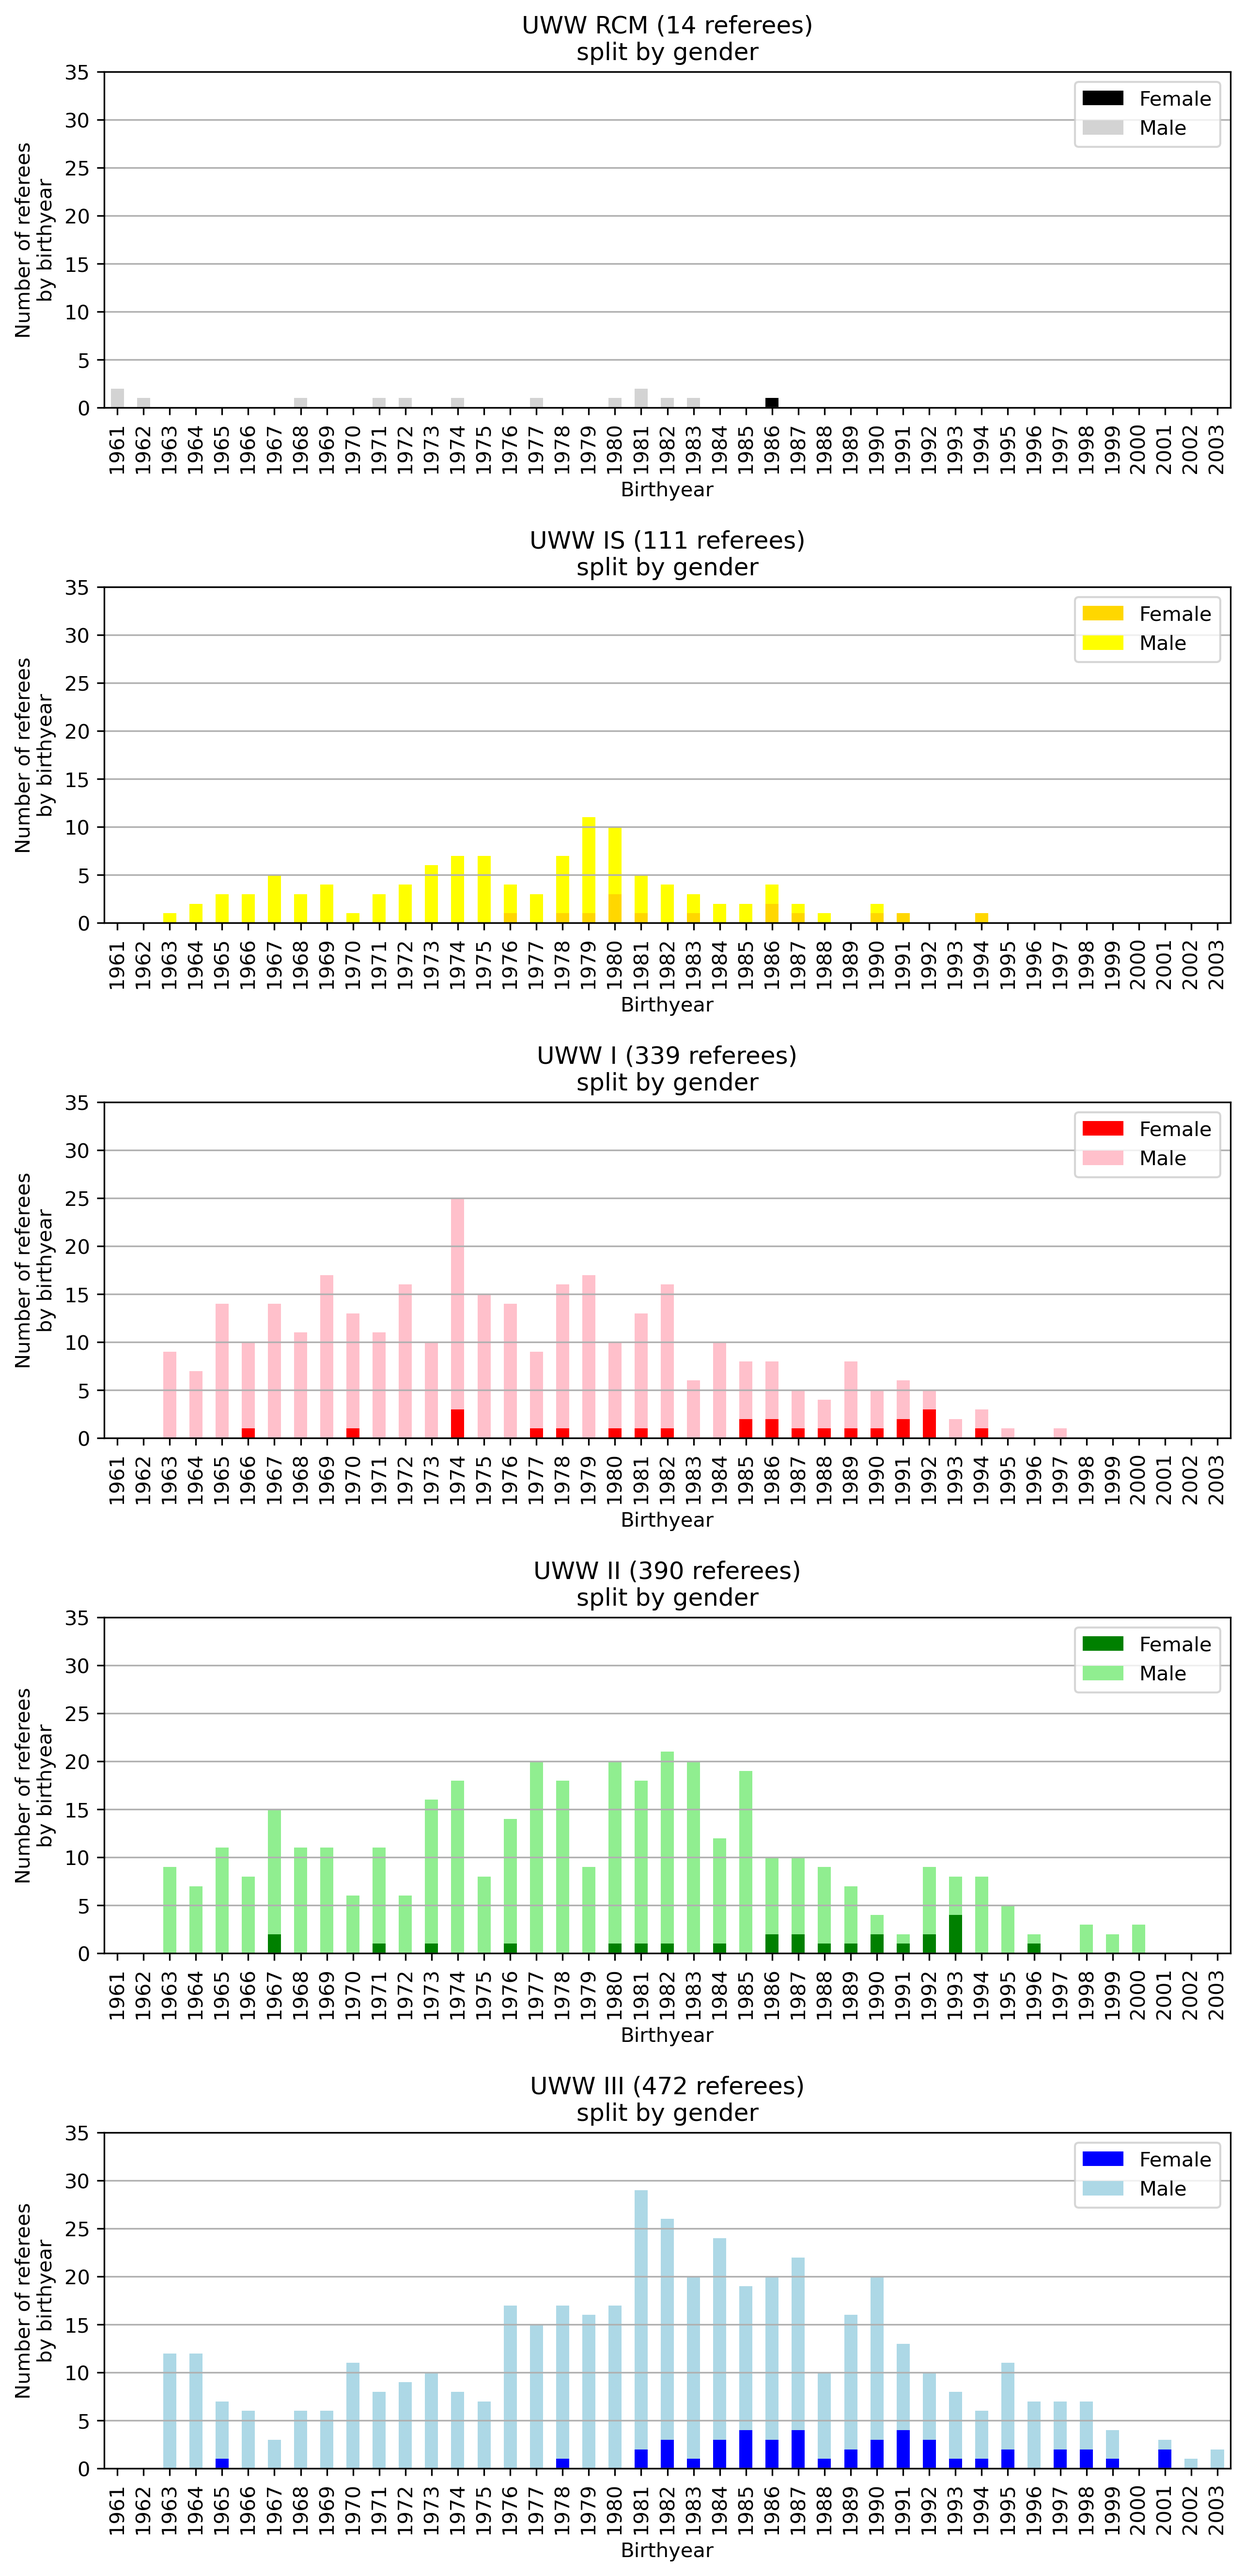
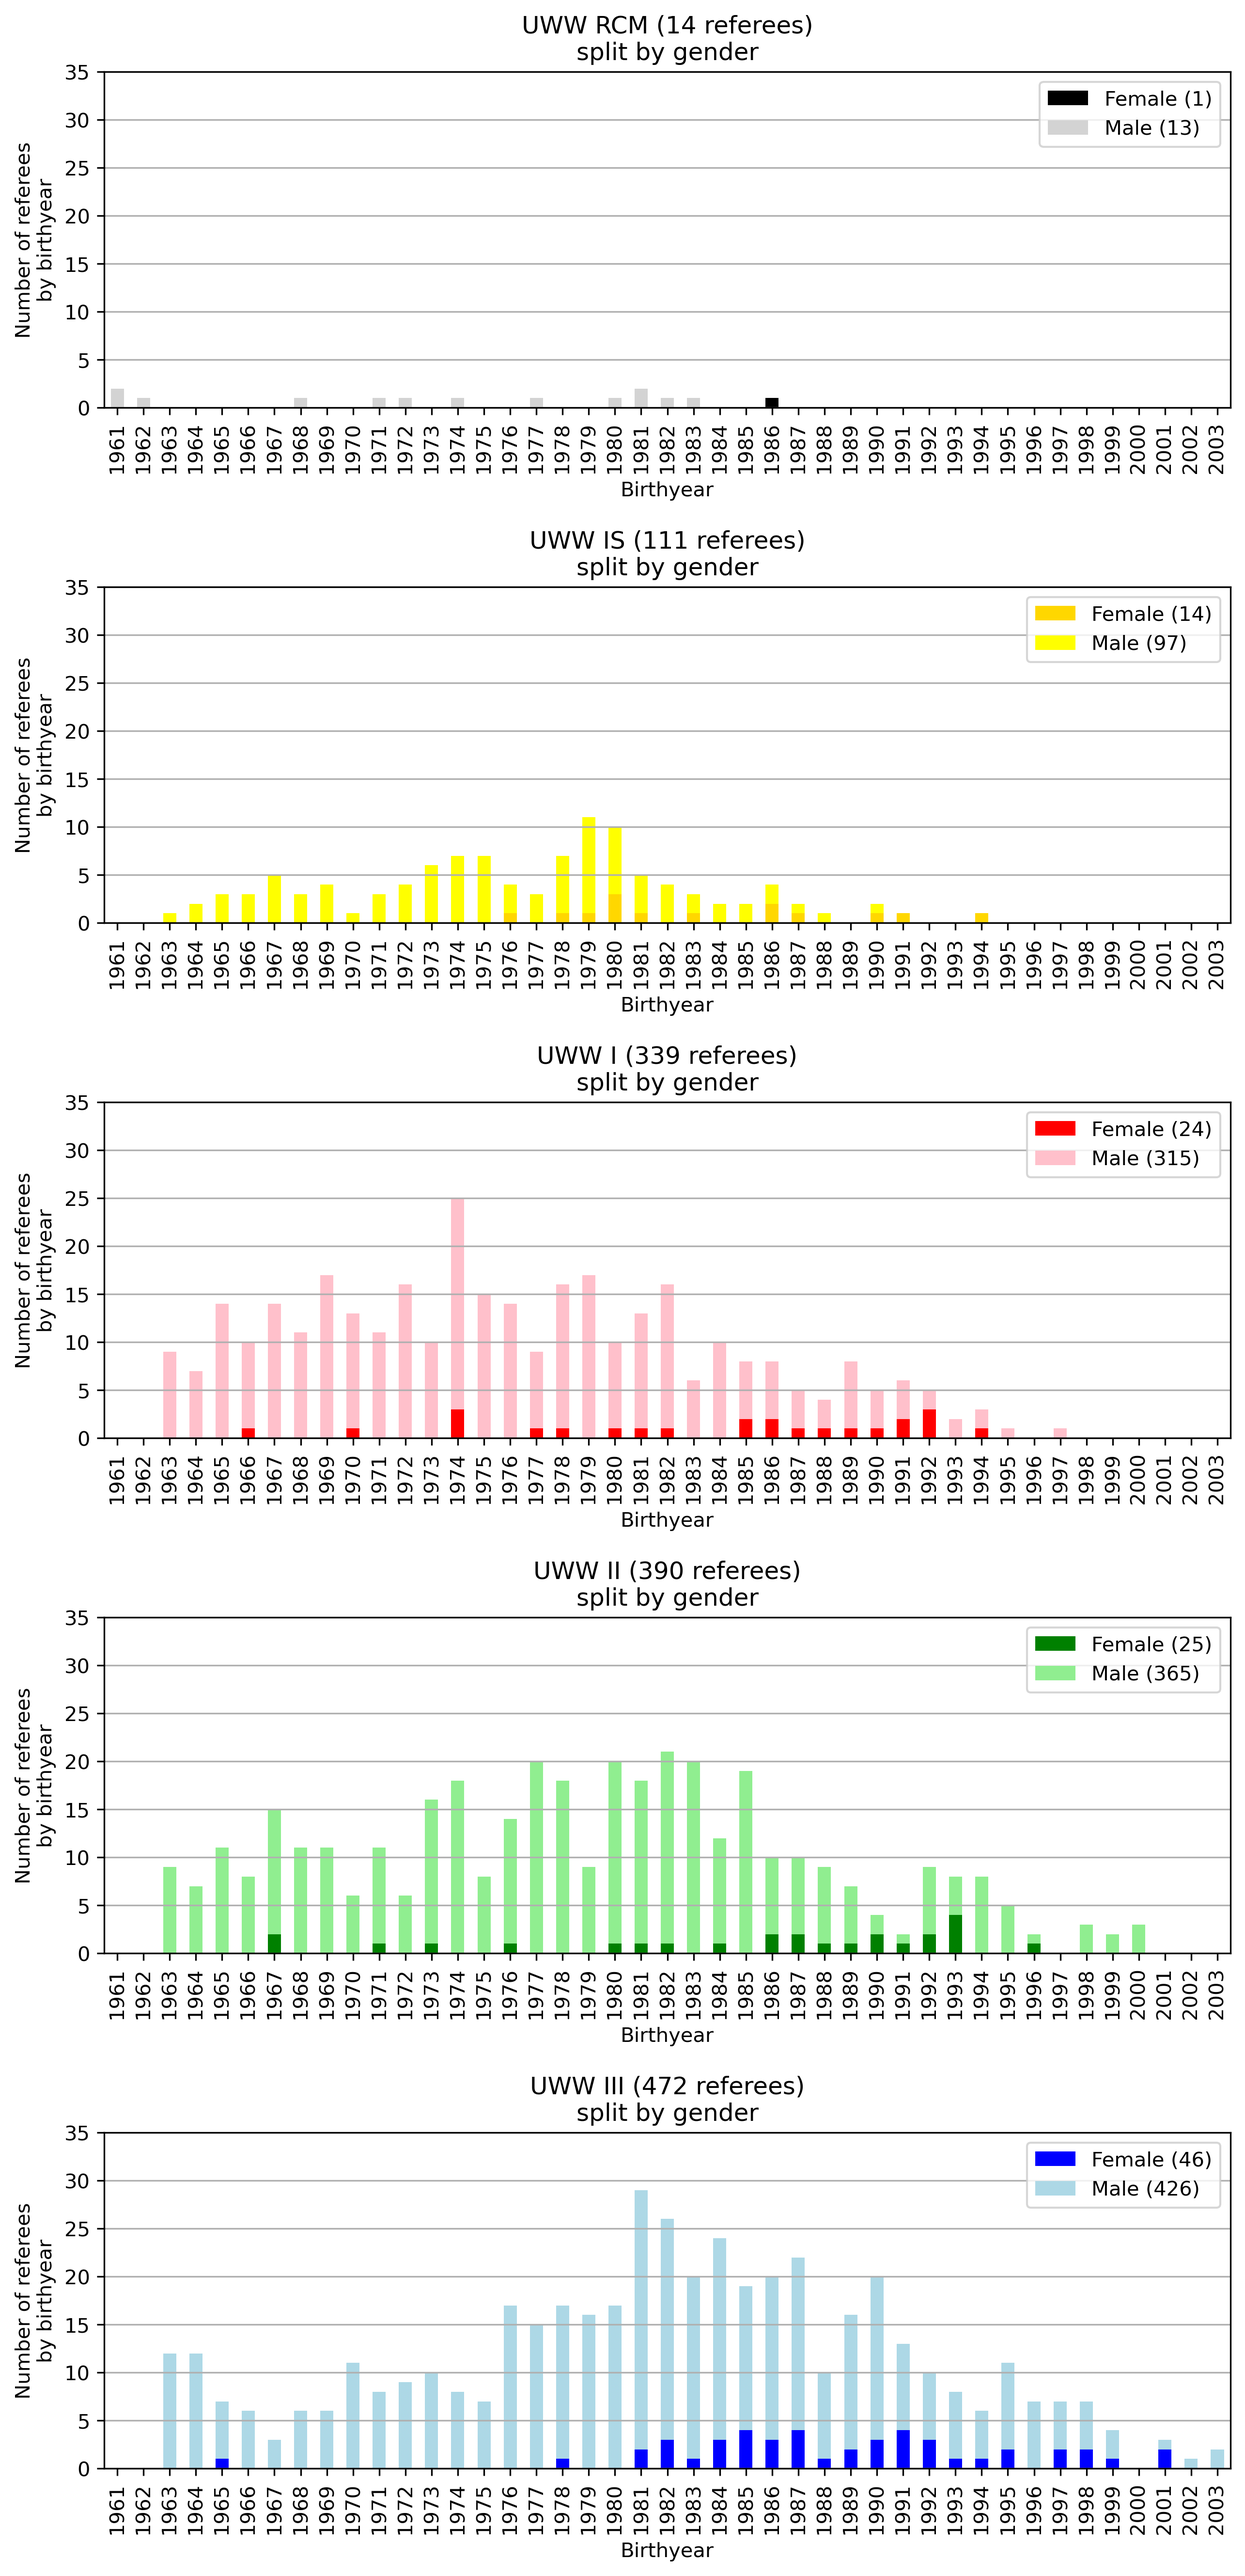
Update image creation with count per gender

diff --git a/graph.py b/graph.py
@@ -24,7 +24,7 @@ def graph_data():
     for category in colors:
         df_tmp_m = get_ref_count(df_int, category, 'M')
         df_tmp_f = get_ref_count(df_int, category, 'F')
-        df_tmp = pd.DataFrame({'Female': df_tmp_f['name'], 'Male': df_tmp_m['name']})
+        df_tmp = pd.DataFrame({f"Female ({df_tmp_f['name'].sum()})": df_tmp_f['name'], f"Male ({df_tmp_m['name'].sum()})": df_tmp_m['name']})
 
         ax = df_tmp.plot(kind="bar", stacked=True, color=colors[category], figsize=(10,3))
         nb_ref_cat =  df_int[df_int['category'] == category]['name'].count()
